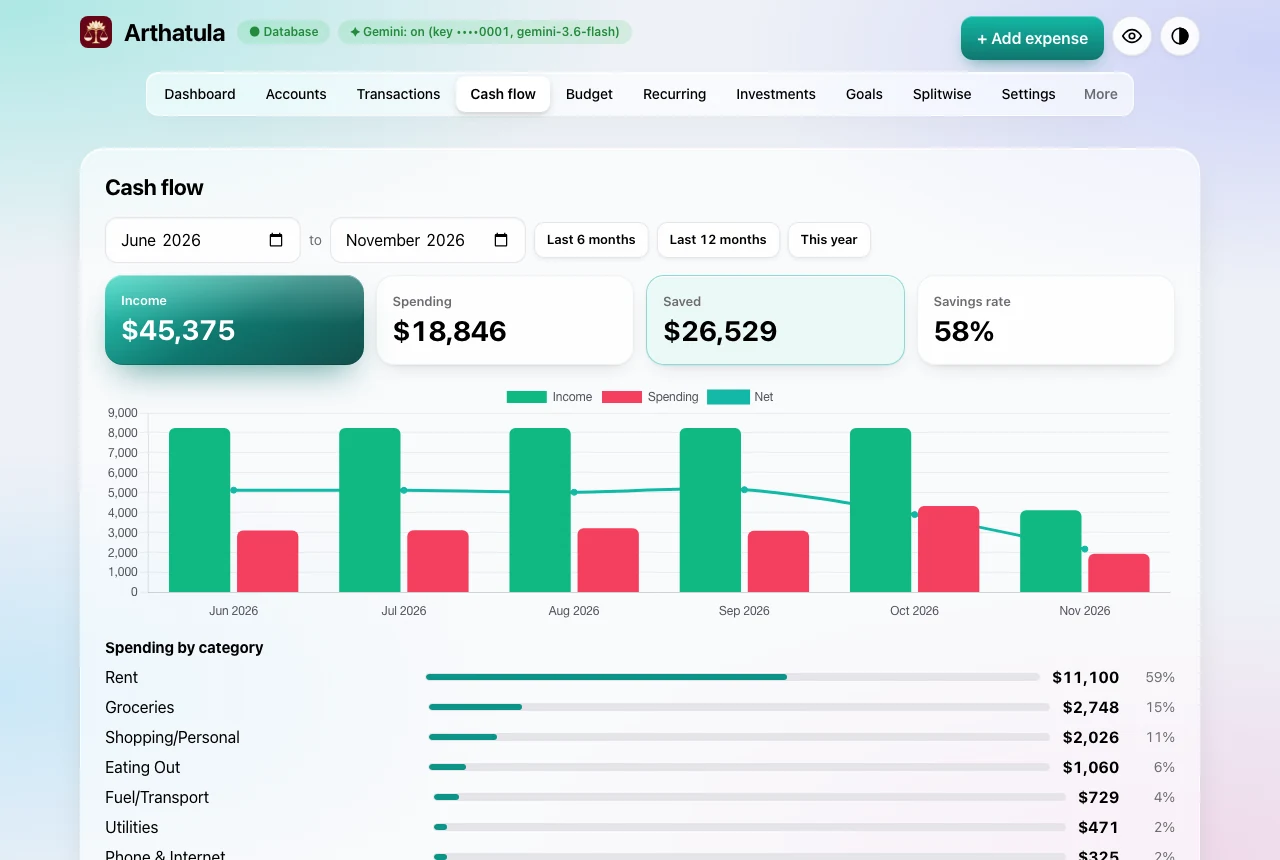
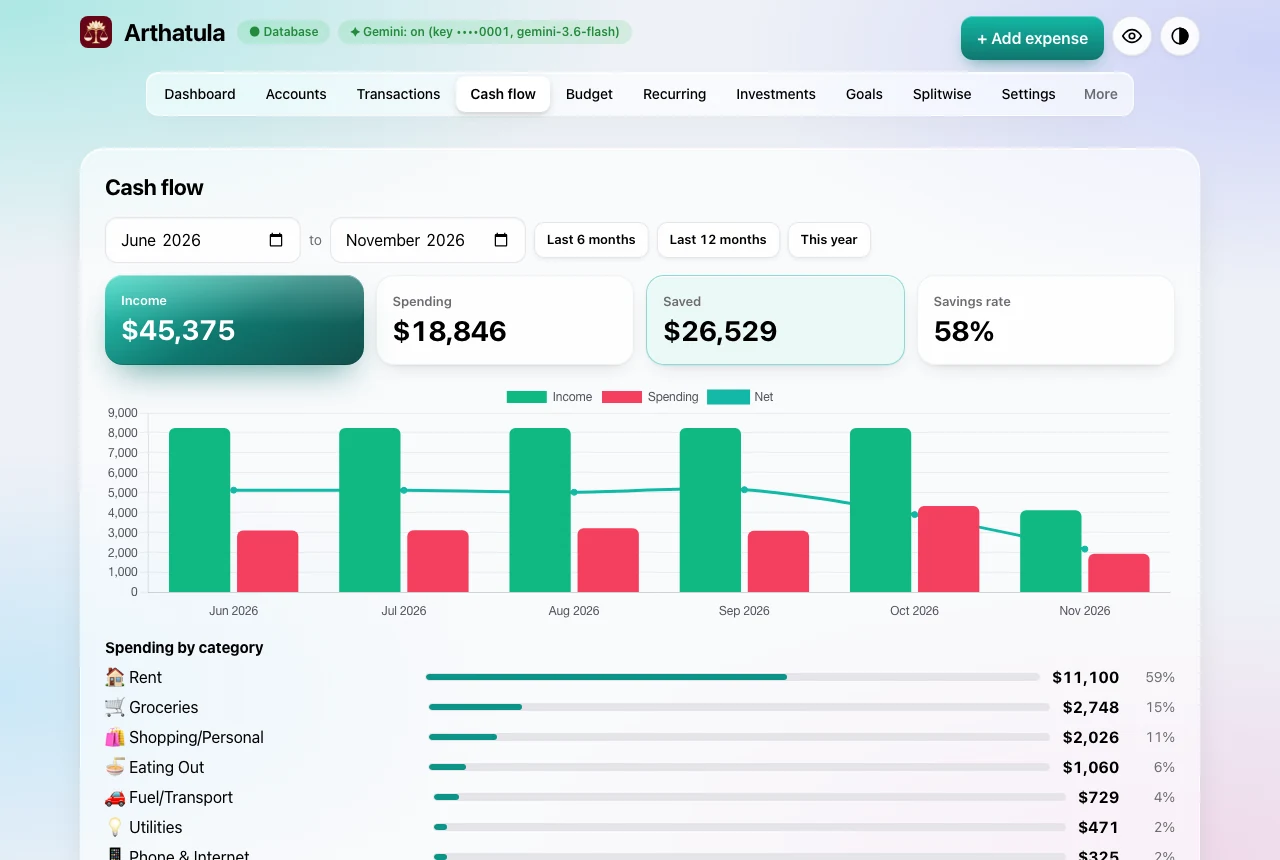
README and guide: Holdings view
- Features gallery gains a Holdings row (screenshot + caption).
- Technical section documents the holdings table, the optional
  `holdings` list on POST /api/v2/sync (complete set replaces; absent
  leaves stored positions alone), and the eye hiding share counts.
- Guide: Holdings come from the bank sync with Plaid's Investments
  product; manual accounts show a balance only.
- Screenshot tool seeds sample holdings and shoots the Holdings card;
  screenshots refreshed (they now include the default category emoji).

Changed region(s): [[0.0625, 0.7558, 0.2188, 1.0]]

diff --git a/README.md b/README.md
@@ -73,6 +73,12 @@
     <td><b>Cash flow.</b> Income vs spending month by month, your savings rate, where the money went, and a 12-month forecast.</td>
     <td><b>Transactions.</b> One feed for every account: search, filter, split, tag, set your share, and clear the review queue the AI pre-checks for you.</td>
   </tr>
+  <tr>
+    <td colspan="2"><img src="docs/screenshots/holdings.webp" alt="Holdings: every position with shares, price, value and gain against cost basis"></td>
+  </tr>
+  <tr>
+    <td colspan="2"><b>Holdings.</b> Every stock, fund and cash position from your brokerage and retirement accounts (through the bank sync): shares, latest price, value, and gain or loss against what you paid, plus the total.</td>
+  </tr>
 </table>
 
 <table>
@@ -474,7 +480,15 @@ an optional emoji (`icon`), shown wherever the name is.
 investment accounts per day from the balance snapshots the sync records
 (`investmentSeries` / `changeOver` in `js/core/v2/money.js`), with
 day / week / 30-day / 1-year change per account and in total, and SPY
-closes from the saved market recaps for an S&P 500 comparison line.
+closes from the saved market recaps for an S&P 500 comparison line. It
+also returns **holdings** (table `holdings`): the positions the sync
+pushes in `POST /api/v2/sync` as an optional `holdings` list
+(`{ accountId, securityId, ticker?, name?, quantity, costBasisCents?,
+priceCents?, valueCents?, kind?, asOf? }`, Plaid's investment holdings).
+When the key is present it is the complete set for the pushed accounts,
+so sold positions disappear; an older sync that leaves it out doesn't
+touch stored holdings. The Holdings card shows shares, price, value and
+gain against cost basis; with the eye on, share counts are hidden too.
 
 **Market today.** After each US close, `functions/api/_market.js` fetches
 quotes for SPY, QQQ and DIA (Finnhub's free plan quotes funds, not the
@@ -684,6 +698,7 @@ node tests/sync.test.mjs        # "Sync now" request queue: auth scope, dedupe, 
 node tests/mcp.test.mjs         # MCP server: mcp-session scope, JSON-RPC handshake, every tool, revoke
 node tests/market.test.mjs      # market recap: trading days, holidays, AI vs plain recap, retries; investments maths and routes
 node tests/layout.test.mjs      # Dashboard layout: validation, save/load, reset
+node tests/holdings.test.mjs    # holdings from the sync: store, replace, keep when absent, clear
 for f in js/*.js js/*/*.js; do node --check "$f"; done   # frontend syntax check
 ```
 

diff --git a/docs/GUIDE.md b/docs/GUIDE.md
@@ -142,9 +142,17 @@ investment accounts, so it fills in by itself once an account is there:
 
 The dashed **S&P 500** line compares your growth with the market from the
 same starting value; it uses the Market today recaps, so it appears once
-a few have been saved. Individual holdings (which stocks you own) aren't
-shown yet. Don't use unofficial "Robinhood API" tools: they need your
-password and break Robinhood's terms.
+a few have been saved.
+
+**Holdings** lists each stock, fund and cash position with its shares,
+latest price, value and gain or loss against what you paid. They come
+from the bank sync when it sends Plaid's investment holdings (needs
+Plaid's Investments product on your Plaid account); a manual account
+shows its balance only. Prices are the latest close your brokerage
+reports, so they update once a day.
+
+Don't use unofficial "Robinhood API" tools: they need your password and
+break Robinhood's terms.
 
 ## 5. Turn on the AI (Gemini, Grok or others)
 
